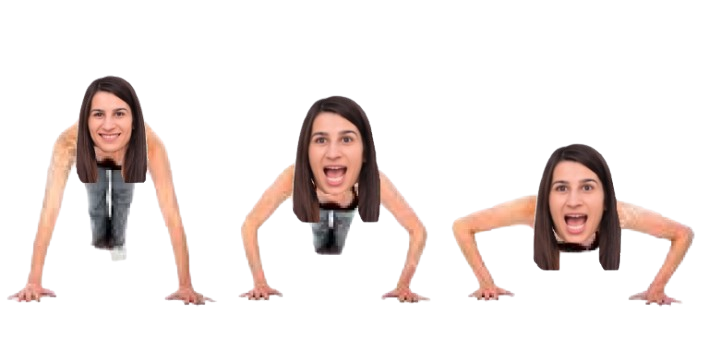
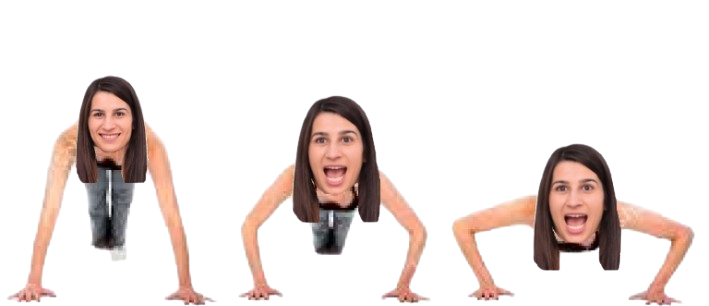
fix

Changed region(s): [[0.3413, 0.2647, 0.9929, 1.0], [0.0, 0.2059, 0.3103, 1.0]]

diff --git a/index.html b/index.html
@@ -6,29 +6,31 @@
 		}
 		.img {
 			position: absolute;
-			left: 380px;
-			top: 125px;
+			left: 50px;
+			top: 55px;
+			overflow: hidden;
 		}
 
 		.i0 {
-			clip: rect(0px, 234px, 234px, 0px);
+			clip: rect(0px, 230px, 306px, 0px);
 		}
 		.i1 {
-			clip: rect(0px, 468px, 234px, 234px);
-			transform: translateX(-234px);
+			clip: rect(0px, 445px, 306px, 230px);
+			transform: translateX(-230px);
 		}
 		.i2 {
-			clip: rect(0px, 702px, 234px, 468px);
-			transform: translateX(-468px);
+			clip: rect(0px, 705px, 306px, 445px);
+			transform: translateX(-460px);
 		}
 		.i3 {
-			clip: rect(0px, 468px, 234px, 234px);
-			transform: translateX(-234px);
+			clip: rect(0px, 445px, 306px, 230px);
+			transform: translateX(-230px);
 		}
 		.background {
 			width: 650px;
 			height: 353px;
 			position: absolute;
+			overflow: hidden;
 		}
 	</style>
 	  
@@ -75,7 +77,7 @@
 			  }
 		  };
 		}
-		var throttledKick = throttle(kick, 5 * interval);
+		var throttledKick = throttle(kick, 4 * interval);
 	</script>
 	
 	</body>
